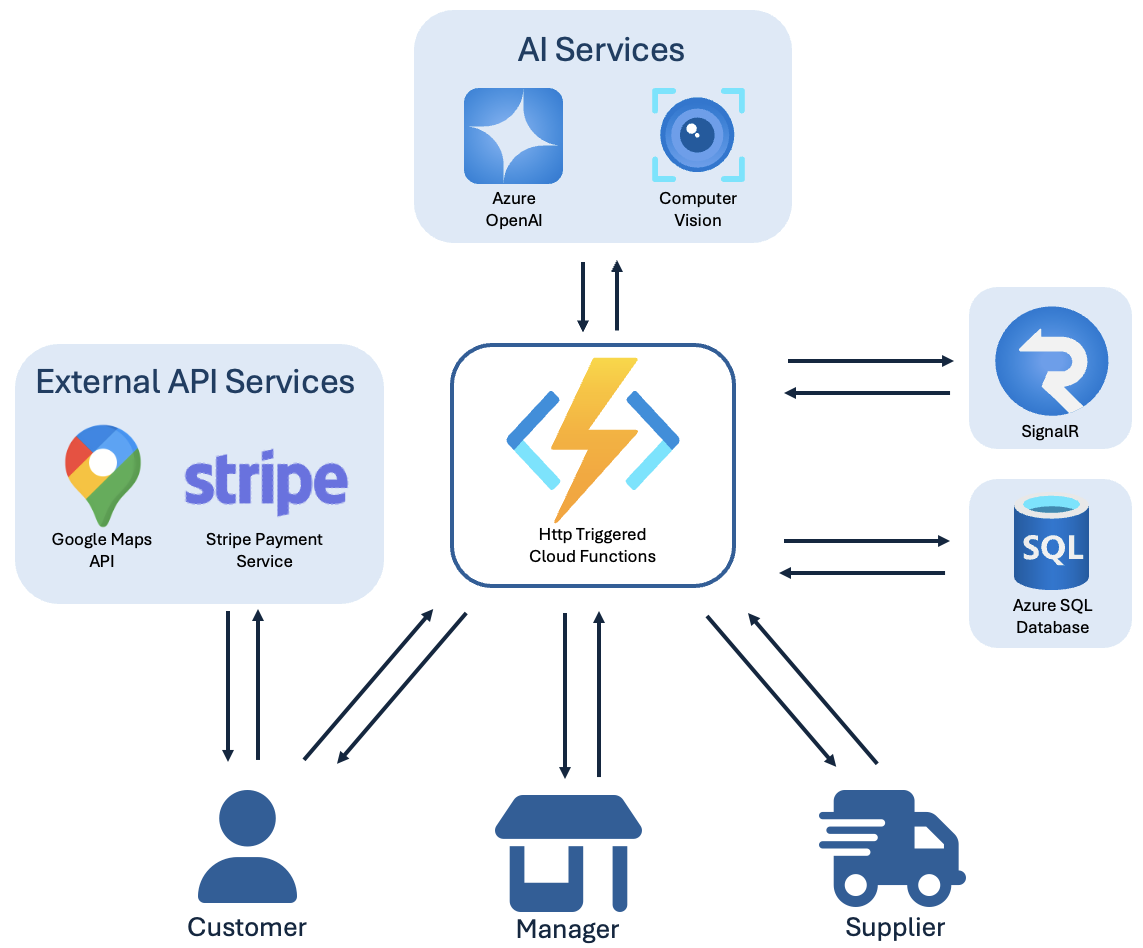
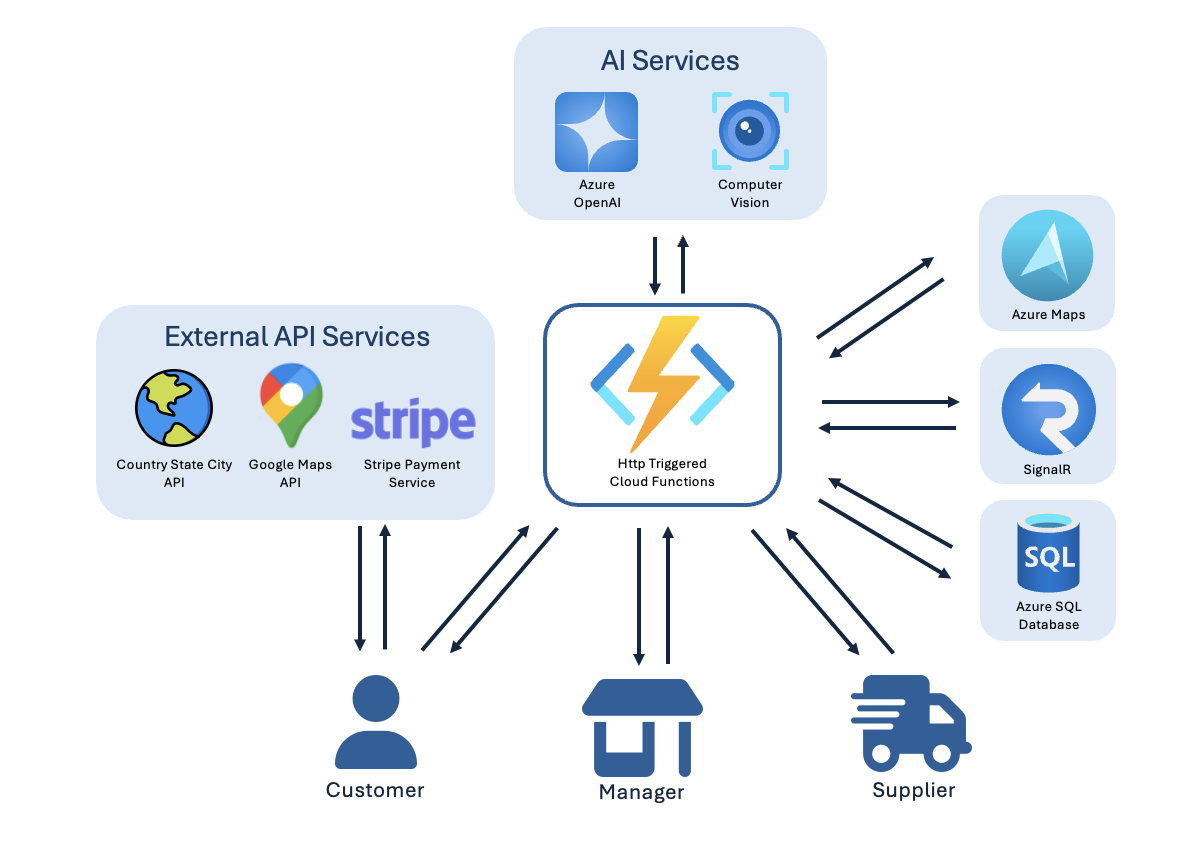
Add manager, supplier pictures + fix services and logic

Changed region(s): [[0.0, 0.2141, 1.0, 1.0], [0.3368, 0.0, 0.7043, 0.2753]]

diff --git a/docs/index.html b/docs/index.html
@@ -175,10 +175,11 @@
           </div>
 
 
-          <div class="col-lg-7 d-flex flex-column justify-content-center">
 
+          <div class="col-lg-7 d-flex flex-column justify-content-center">
             <h3 style="margin-bottom: 30px;">Manager Portal</h3>
             <p></p>
+
             <div class="features-item d-flex" data-aos="fade-up" data-aos-delay="200">
               <i class="bi bi-map"></i>
               <div>
@@ -203,10 +204,14 @@
               </div>
             </div><!-- End Features Item-->
           </div>
+          <div class="features-image col-lg-5 d-flex align-items-center" data-aos="fade-up">
+            <!-- <div class="features-image col-lg-4 d-flex align-items-center" data-aos="fade-up"></div> -->
+            <img src="assets/img/speedymarket-computer-manager.png" class="img-fluid" alt="">
+          </div>
 
           <div class="row gy-4 justify-content-between">
-            <div class="features-image col-lg-4 d-flex align-items-center" data-aos="fade-up">
-              <img src="assets/img/features.png" class="img-fluid" alt="">
+            <div class="features-image col-lg-5 d-flex align-items-center" data-aos="fade-up">
+              <img src="assets/img/speedymarket-computer-supplier.png" class="img-fluid" alt="">
             </div>
             
           <div class="col-lg-7 d-flex flex-column justify-content-center">
@@ -306,14 +311,46 @@
           <div class="col-lg-4 col-md-6" data-aos="fade-up" data-aos-delay="600">
             <div class="service-item position-relative">
               <div class="icon">
-                <i class="bi bi-gear-fill"></i>
+                <i class="bi bi-compass"></i>              
               </div>
-                <h3>External APIs</h3>
+                <h3>Azure Maps</h3>
               </a>
-              <p>Integration with Google Maps for locating nearby supermarkets and Stripe Payment services for secure, streamlined payment processing, enhancing the overall shopping experience.</p>
+              <p>Translating addresses to coordinate points in order to present supermarket locations on the map.</p>
+            </div>
+          </div><!-- End Service Item -->
+        
+          <div class="col-lg-4 col-md-6" data-aos="fade-up" data-aos-delay="700">
+            <div class="service-item position-relative">
+              <div class="icon">
+                <i class="bi bi-geo-alt-fill"></i>
+              </div>
+                <h3>Google Maps</h3>
+              </a>
+              <p>Integration with Google Maps for locating participating supermarkets nearby.</p>
             </div>
           </div><!-- End Service Item -->
 
+          <div class="col-lg-4 col-md-6" data-aos="fade-up" data-aos-delay="800">
+            <div class="service-item position-relative">
+              <div class="icon">
+                <i class="bi bi-credit-card-fill"></i>
+              </div>
+                <h3>Stripe Payment</h3>
+              </a>
+              <p>Incorporating Stripe Payment services for secure, streamlined payment processing, enhancing the overall shopping experience.</p>
+            </div>
+          </div><!-- End Service Item -->
+
+          <div class="col-lg-4 col-md-6" data-aos="fade-up" data-aos-delay="900">
+            <div class="service-item position-relative">
+              <div class="icon">
+                <i class="bi bi-globe-americas"></i>
+              </div>
+                <h3>Country State City API</h3>
+              </a>
+              <p>Provides accurate location data for selecting countries, states, and cities for supermarket location in management settings.</p>
+            </div>
+          </div><!-- End Service Item -->
         </div>
 
       </div>
